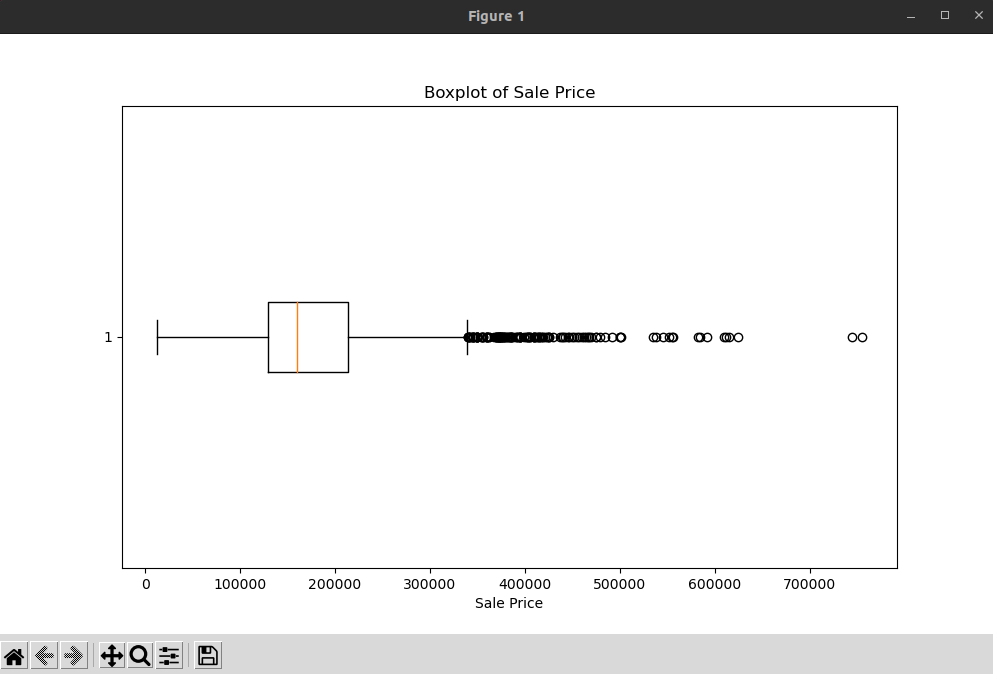
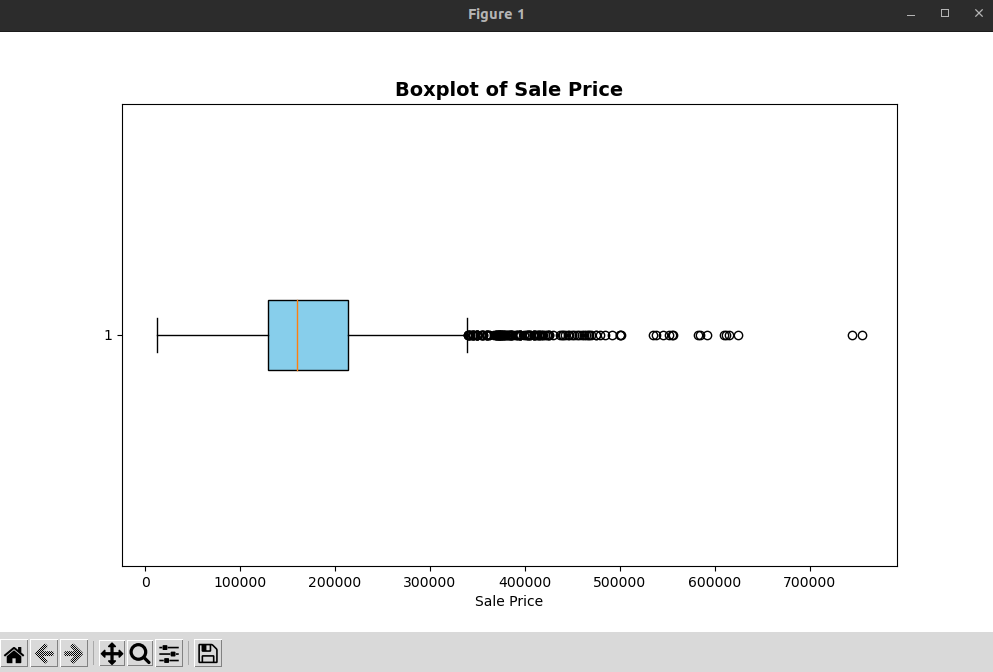
readme

diff --git a/1.FundamentalsML/2.HousePricePrediction/2.2ExploratoryDataAnalysis(EDA)/2.ExploratoryDataAnalysis(EDA).py b/1.FundamentalsML/2.HousePricePrediction/2.2ExploratoryDataAnalysis(EDA)/2.ExploratoryDataAnalysis(EDA).py
@@ -3,7 +3,7 @@ import numpy as np
 import matplotlib.pyplot as plt
 import seaborn as sns
 
-# Ruta del archivo procesado (el que guardamos en DataProcessing.py)
+# Ruta del archivo procesado
 file_path = '/home/kevin/Desktop/Kevin/3.MachineLearning/1.FundamentalsML/2.HousePricePrediction/2.2ExploratoryDataAnalysis(EDA)/AmesHousing_cleaned.csv'
 
 # Cargar datos
@@ -12,65 +12,65 @@ df = pd.read_csv(file_path)
 # Eliminar espacios en los nombres de las columnas
 df.columns = df.columns.str.strip()
 print(df.columns)
+
 # ==================== RESUMEN ESTADÍSTICO ====================
 print("Resumen Estadístico:")
 print(df.describe())
 
 # ==================== HISTOGRAMA ====================
 plt.figure(figsize=(10, 6))
-plt.hist(df['saleprice'].dropna(), bins=50, color='skyblue', edgecolor='black')
-plt.title('Histogram of Sale Price')
+plt.hist(df['saleprice'].dropna(), bins=50, color='#87CEEB', edgecolor='black')  # Sky Blue
+plt.title('Histogram of Sale Price', fontsize=14, fontweight='bold')
 plt.xlabel('Sale Price')
 plt.ylabel('Frequency')
-plt.grid(True)
+plt.grid(True, linestyle='--', alpha=0.6)
 plt.show()
 
 # ==================== BOXPLOT ====================
 plt.figure(figsize=(10, 6))
-plt.boxplot(df['saleprice'].dropna(), vert=False)
-plt.title('Boxplot of Sale Price')
+plt.boxplot(df['saleprice'].dropna(), vert=False, patch_artist=True, boxprops=dict(facecolor='#87CEEB'))
+plt.title('Boxplot of Sale Price', fontsize=14, fontweight='bold')
 plt.xlabel('Sale Price')
 plt.show()
 
 # ==================== SCATTER PLOT (Gr Liv Area vs Sale Price) ====================
 plt.figure(figsize=(10, 6))
-plt.scatter(df['gr_liv_area'], df['saleprice'], alpha=0.5, color='cornflowerblue', edgecolor='k')
-plt.title('Living Area vs Sale Price')
+plt.scatter(df['gr_liv_area'], df['saleprice'], alpha=0.5, color='#4682B4', edgecolor='black')  # Steel Blue
+plt.title('Living Area vs Sale Price', fontsize=14, fontweight='bold')
 plt.xlabel('gr_liv_area')
-plt.ylabel('Sale Price')
-plt.grid(True)
+plt.ylabel('Sale Price') 
+plt.grid(True, linestyle='--', alpha=0.6)
 plt.show()
 
 # ==================== MATRIZ DE CORRELACIÓN ====================
 correlation_matrix = df.corr(numeric_only=True)
 
 plt.figure(figsize=(12, 8))
-plt.imshow(correlation_matrix, cmap='coolwarm', interpolation='nearest')
+plt.imshow(correlation_matrix, cmap='coolwarm', interpolation='nearest')  # Volvemos al estilo original
 plt.colorbar()
-
 plt.xticks(ticks=np.arange(len(correlation_matrix.columns)), labels=correlation_matrix.columns, rotation=90, fontsize=8)
 plt.yticks(ticks=np.arange(len(correlation_matrix.columns)), labels=correlation_matrix.columns, fontsize=8)
-plt.title('Correlation Matrix')
+plt.title('Correlation Matrix', fontsize=14, fontweight='bold')
 plt.show()
 
 # ==================== LOG TRANSFORMATION (SalePrice) ====================
 df['Log_SalePrice'] = np.log1p(df['saleprice'])
 
 plt.figure(figsize=(10, 6))
-plt.hist(df['Log_SalePrice'].dropna(), bins=50, color='lightgreen', edgecolor='black')
-plt.title('Histogram of Log Sale Price')
+plt.hist(df['Log_SalePrice'].dropna(), bins=50, color='#00BFFF', edgecolor='black')  # Deep Sky Blue
+plt.title('Histogram of Log Sale Price', fontsize=14, fontweight='bold')
 plt.xlabel('Log Sale Price')
 plt.ylabel('Frequency')
-plt.grid(True)
+plt.grid(True, linestyle='--', alpha=0.6)
 plt.show()
 
 # ==================== LOG SCATTER PLOT ====================
 plt.figure(figsize=(10, 6))
-plt.scatter(df['gr_liv_area'], df['Log_SalePrice'], alpha=0.5, color='orange', edgecolor='k')
-plt.title('Living Area vs Log Sale Price')
+plt.scatter(df['gr_liv_area'], df['Log_SalePrice'], alpha=0.5, color='#1E90FF', edgecolor='black')  # Dodger Blue
+plt.title('Living Area vs Log Sale Price', fontsize=14, fontweight='bold')
 plt.xlabel('gr_liv_area')
 plt.ylabel('Log Sale Price')
-plt.grid(True)
+plt.grid(True, linestyle='--', alpha=0.6)
 plt.show()
 
 # ==================== CATEGORICAL DATA ANALYSIS ====================
@@ -79,30 +79,23 @@ df = df.dropna(subset=['house_style'])
 
 # Boxplot de precios por estilo de vivienda
 plt.figure(figsize=(10, 6))
-sns.boxplot(x='house_style', y='saleprice', data=df)
+sns.boxplot(x='house_style', y='saleprice', data=df, palette='Blues')
 plt.xticks(rotation=45)
-plt.title('Sale Price by House Style')
+plt.title('Sale Price by House Style', fontsize=14, fontweight='bold')
 plt.show()
 
-# Barplot de precios por vecindario
+# Boxplot de precios por vecindario
 plt.figure(figsize=(12, 6))
-sns.boxplot(x='neighborhood', y='saleprice', data=df)
+sns.boxplot(x='neighborhood', y='saleprice', data=df, palette='Blues')
 plt.xticks(rotation=90)
-plt.title('Sale Price by Neighborhood')
-plt.show()
-
-# Barplot de precios por estilo de vivienda
-plt.figure(figsize=(10, 6))
-sns.boxplot(x='house_style', y='saleprice', data=df)
-plt.xticks(rotation=45)
-plt.title('Sale Price by House Style')
+plt.title('Sale Price by Neighborhood', fontsize=14, fontweight='bold')
 plt.show()
 
 # Conteo de categorías clave
 plt.figure(figsize=(8, 5))
-sns.countplot(x='overall_qual', data=df, hue='overall_qual', palette='viridis', legend=False)
-plt.title('Count of Overall Quality')
+sns.countplot(x='overall_qual', data=df, hue='overall_qual', palette='Blues', legend=False)
+plt.title('Count of Overall Quality', fontsize=14, fontweight='bold')
 plt.xlabel('Overall Quality')
 plt.ylabel('Count')
-plt.grid(axis='y')
+plt.grid(axis='y', linestyle='--', alpha=0.6)
 plt.show()

diff --git a/1.FundamentalsML/2.HousePricePrediction/2.2ExploratoryDataAnalysis(EDA)/Readme.md b/1.FundamentalsML/2.HousePricePrediction/2.2ExploratoryDataAnalysis(EDA)/Readme.md
@@ -1,69 +1,71 @@
 <p align = "center" >
-    <h1 align = "Center"> Exploratory Data Analysis (EDA) </h1>
+    <h1 align = "Center"> 2.1 Data Processing</h1>
 </p>
+
+This script performs an exploratory data analysis (EDA) on the AmesHousing_cleaned.csv dataset. It uses Python libraries such as Pandas, NumPy, Matplotlib, Seaborn to analyze and visualize the distribution of house prices and their relationship with other variables.
+
+Various graphical representations are generated, such as histograms, scatter plots, boxplots, and a correlation matrix, which help to better understand the trends and relationships between the variables in the dataset.
 
 <p align = "center" >
     <h2 align = "Center">🎯 Objetives 🎯</h2>
 </p>
 
-Explore, visualize, and transform key variables to better understand the dataset and lay the groundwork for predictive modeling.
+This analysis helps to detect trends, outliers, and patterns in the data, facilitating decision-making for feature engineering and model selection. 
 
-Visually and statistically explore the already cleaned data (AmesHousing_cleaned.csv), focusing on understanding the distribution of SalePrice, looking for key relationships between variables, and paving the way for modeling (for example, discovering the need to apply transformations like the logarithm).
-
-* **1.Data Load** 
-    - The clean dataset you generated in Program 1 (1.1DataProcessing) (AmesHousing_cleaned.csv), now without null values, is loaded.
-
-* **2.Visual Analysis: Histograms (SalePrice)**
-    - Show how house prices are distributed.
-    - Objective: To see if the distribution is normal, skewed, or has outliers.
-    - Result: Generally shows that prices are right-skewed (lower prices are more frequent, but there are some very high prices).
-
-* **3.Visual Analysis (Boxplot SalePrice)**
-    - Show the price dispersion and detect possible outliers.
-    - Objective: To see interquartile ranges and detect outliers.
-    - Result: In this type of datasets, it is common to see some extremely high prices as outliers.
-
-* **4.Relationship between Variables (Scatter Plot Gr Liv Area vs Sale Price)**
-    - Show how the livable area (Gr Liv Area) relates to the sale price.
-    - Objective: To see if there is a linear relationship or interesting patterns.
-    - Result: Normally, a positive trend is observed (the larger the area, the higher the price), but with some outliers (very large houses with lower-than-expected prices).
-
-* **5. Correlation Matrix (Numerical Variables)**
-    - Visualize the correlation between all numerical variables.
-    - Objective: Identify which variables have a high correlation with SalePrice, which helps in selecting features for the model.
-    - Result: In general, variables such as OverallQual, GrLivArea, and GarageCars tend to have a high correlation with SalePrice.
-
-* **6. Logarithmic Transformation of SalePrice (Log Transform)**
-    - A new column is created
-    - Objective: If SalePrice is skewed (as it often is), applying the logarithm helps to normalize the distribution.
-    - Result: A new histogram shows that Log_SalePrice is more symmetrical.
-
-* **7. Scatter Plot with Log_SalePrice (Gr Liv Area vs Log SalePrice)**
-    - Understand your data before training any modelRepite el scatter plot pero con Log_SalePrice.
-    - Objective: To see if the linear relationship improves by using the logarithm.
-    - Result: Normally, a more linear relationship is seen, which is better for linear models.
+- Obtain descriptive statistics from the dataset.
+- Visualize the distribution of the sale price (**`saleprice`**).
+- Analyze relationships between key variables, such as living area (**`gr_liv_area`**) and the sale price.
+- Explore the correlation between numerical variables using a correlation matrix.
+- Transform the prices with logarithms to improve the normality in the data.
+- Evaluate categorical data using box plots and category counts.
 
 <p align = "center" >
     <h2 align = "Center">📝 Results 📝 </h2>
 </p>
 
-|SalePrice Histogram|Boxplot Sale Price|
+|Description| Histogram of sale Price|
 |----------|---------------------|
-|See Initial Distribution <br> <img src = "https://github.com/KevinAlberto01/3.MachineLearning/blob/main/1.FundamentalsML/2.HousePricePrediction/1.2ExploratoryDataAnalysis(EDA)/Images/1.HistogramSalePrice.png" width="4000"/>|Detect Outliers <br> <img src = "https://github.com/KevinAlberto01/3.MachineLearning/blob/main/1.FundamentalsML/2.HousePricePrediction/1.2ExploratoryDataAnalysis(EDA)/Images/2.BoxplotSalePrice.png" width="4000"/>|
-|<p align = "center" >**GrLivArea vs SalePrice Scatter Plot**</p>|<p align = "center" >**Correlation Matrix**</p>|
-|Direct relationship between area and price <br> <img src = "https://github.com/KevinAlberto01/3.MachineLearning/blob/main/1.FundamentalsML/2.HousePricePrediction/1.2ExploratoryDataAnalysis(EDA)/Images/3.LivingAreavsSalePRice.png" width="4000"/> |Identify key variables <br> <img src = "https://github.com/KevinAlberto01/3.MachineLearning/blob/main/1.FundamentalsML/2.HousePricePrediction/1.2ExploratoryDataAnalysis(EDA)/Images/4.CorrelationMatrix.png" width="4000"/>|
-|<p align = "center" >**Transformación Logarítmica**</p>|<p align = "center" >**Scatter Plot GrLivArea vs Log_SalePrice**</p>|
-|Normalizar SalePrice <br> <img src = "https://github.com/KevinAlberto01/3.MachineLearning/blob/main/1.FundamentalsML/2.HousePricePrediction/1.2ExploratoryDataAnalysis(EDA)/Images/5.HistogramLogSalePrice.png" width="4000"/> |Mejorar relación lineal <br> <img src = "https://github.com/KevinAlberto01/3.MachineLearning/blob/main/1.FundamentalsML/2.HousePricePrediction/1.2ExploratoryDataAnalysis(EDA)/Images/6.LivingAreaLogSalePrice.png" width="4000"/>|
+|          |                        |
+|Description| Box of Sale Price|
+|          |                        |
+|Description| Living Area vs Sale Price|
+|          |                        |
+|Description| Correlation Matrix|
+|          |                        |
+|Description| Histogram of log sale Price|
+|          |                        |
+|Description| Living Area vs log Sale Price|
+|          |                        |
+|Description| Sale price by house style|
+|          |                        |
+|Description| Sale Price by Neighborhood|
+|          |                        |
+|Description| Count of Overall Quality|
+|          |                        |
+|Description| Name of Colums|
+|          |                        |
+|Description| Estadistic summary|
+|          |                        |
 
 <p align = "center" >
-    <h2 align = "Center"> 💻 Program explication (PENDING) 💻</h2>
+    <h2 align = "Center"> 💻 Program explication 💻</h2>
 </p> 
 
 |Pseudocode| Image of the program|
 |----------|---------------------|
-**NumPy:** Used to work with arrays and matrices, and it has functions for mathematics and statistics <br> **Pandas:** Used to manipulate and analyze data, particularly with DataFrames (tables of rows and columns).<br> **matplotlib.pyplot:** Used to create graphs, and pyplot is specifically for generating different types of plots (e.g., bar, line, scatter).<br> **load_digits from sklearn.datasets:** Used to load a dataset of handwritten digits, which is commonly used in classification projects.| <img src = "https://github.com/KevinAlberto01/3.MachineLearning/blob/main/1.FundamentalsML/1.HandwrittenDigitClassifier(MNIST)/1.1LoadingAndExploring(MNIST)/Images/1.DeclareteLibraries.png" width="4000"/>|
-**`digits`:** loads a dataset of handwritten digit images, where you find images of numbers 0 to 9 in black and white, each with 8x8 pixels. Each image represents a number (digit) and has a label indicating which number it is. <br> **`x`:** Contains images (numeric format), for each 8x8 image it is flattened into a 64 array, each value represents the pixel intensity (0 = black, 16 = white). <br> **`y`:** contains the labels (real numbers of the images), each element is a number from 0 to , representing which digit each image is| <img src = "https://github.com/KevinAlberto01/3.MachineLearning/blob/main/1.FundamentalsML/1.HandwrittenDigitClassifier(MNIST)/1.1LoadingAndExploring(MNIST)/Images/2.LoadDataset.png" width="4000"/>|
-**`x.shape`:** Returns the dimension of x(1797, 64), it has 1797 images, and each image has 64 values (8x8 pixels). <br> **`y.shape`:** Returns the dimension of y (1797), there are 1797 labels per image, each label is the number it represents (0-9).|<img src = "https://github.com/KevinAlberto01/3.MachineLearning/blob/main/1.FundamentalsML/1.HandwrittenDigitClassifier(MNIST)/1.1LoadingAndExploring(MNIST)/Images/3.ExploringDimensionsDataSet.png" width="4000"/>|
-**`clases`:** Contains the unique values of y(0-9) <br> **`count_classes`:** Array that indicates how many examples there are of each class | <img src = "https://github.com/KevinAlberto01/3.MachineLearning/blob/main/1.FundamentalsML/1.HandwrittenDigitClassifier(MNIST)/1.1LoadingAndExploring(MNIST)/Images/4.CheckClassesNumberExamples.png" width="4000"/>|
-**`plt.figure(figsize=(8,5))`:** Set the size of the figure (8 wide and 5 high) <br> **`plt.bar(clases, count_classes, color='skyblue')`:** Create the bar chart, the list that contains the number of examples, assign the color of the bars. <br> **`plt.xlabel('Digit')`:** Set the x-axis label <br> **`plt.ylabel('Number of examples')`:** Set the y-axis label <br> **`plt.title('Distribution of the classes')`:** Add a title to the chart. <br> **`plt.show()`:** Visualize the graph | <img src = "https://github.com/KevinAlberto01/3.MachineLearning/blob/main/1.FundamentalsML/1.HandwrittenDigitClassifier(MNIST)/1.1LoadingAndExploring(MNIST)/Images/5.ViewDistributionClasses.png" width="4000"/>|
-**`fig, axes = plt.subplots(2, 5, figsize=(10, 5))`:** Create a figure and a grid (2 rows and 5 columns) totaling 10 subplots, set the size (10, 5 in inches)  10 wide and 5 high <br> **`fig.suptitle("Examples of images")`:** Establish a general title <br> **`for i, ax in enumerate(axes.ravel())`:** Iterates through each of the subplots, converts the (2x5) matrix into a one-dimensional array, which makes individual access easier, and returns both the index `i` and the `ax` object in each iteration. <br> **`ax.imshow(x[i].reshape(8,8), cmap='gray')`:** it is a vector image from the dataset.  resize to an 8x8 matrix, apply a grayscale <br> **`ax.set_title(f"label: {y[i]}")`:** Assign a title to each subplot. <br> **`ax.axis('off')`:** Deactivate the axes so that the marks or values do not appear. <br> **`plt.show()`:** Show the subplots and images. | <img src = "https://github.com/KevinAlberto01/3.MachineLearning/blob/main/1.FundamentalsML/1.HandwrittenDigitClassifier(MNIST)/1.1LoadingAndExploring(MNIST)/Images/6.ViewExample.png" width="4000"/>|
+add| <img src = "https://github.com/KevinAlberto01/3.MachineLearning/blob/main/1.FundamentalsML/2.HousePricePrediction/2.1DataProcessing/Images/1.ImportLibraries.png" width="4000"/>|
+
+add| <img src = "https://github.com/KevinAlberto01/3.MachineLearning/blob/main/1.FundamentalsML/2.HousePricePrediction/2.1DataProcessing/Images/2.LoadDataset.png" width="4000"/>|
+
+add|<img src = "https://github.com/KevinAlberto01/3.MachineLearning/blob/main/1.FundamentalsML/2.HousePricePrediction/2.1DataProcessing/Images/3.DataInspection.png" width="4000"/>|
+
+
+add| <img src = "https://github.com/KevinAlberto01/3.MachineLearning/blob/main/1.FundamentalsML/2.HousePricePrediction/2.1DataProcessing/Images/4.ColumnClassification.png" width="4000"/>|
+
+
+add| <img src = "https://github.com/KevinAlberto01/3.MachineLearning/blob/main/1.FundamentalsML/2.HousePricePrediction/2.1DataProcessing/Images/5.CleaningData.png" width="4000"/>|
+
+add| <img src = "https://github.com/KevinAlberto01/3.MachineLearning/blob/main/1.FundamentalsML/2.HousePricePrediction/2.1DataProcessing/Images/6.SaveCleaned.png" width="4000"/>|
+
+
+add| <img src = "https://github.com/KevinAlberto01/3.MachineLearning/blob/main/1.FundamentalsML/2.HousePricePrediction/2.1DataProcessing/Images/7.DataInspection.png" width="4000"/>|

diff --git a/1.FundamentalsML/2.HousePricePrediction/2.1DataProcessing/Readme.md b/1.FundamentalsML/2.HousePricePrediction/2.1DataProcessing/Readme.md
@@ -318,10 +318,10 @@ Finally, save the cleaned dataset in a CSV file.
 
 |Pseudocode| Image of the program|
 |----------|---------------------|
-add| <img src = "https://github.com/KevinAlberto01/3.MachineLearning/blob/main/1.FundamentalsML/2.HousePricePrediction/2.1DataProcessing/Images/1.ImportLibraries.png" width="4000"/>|
-add| <img src = "https://github.com/KevinAlberto01/3.MachineLearning/blob/main/1.FundamentalsML/2.HousePricePrediction/2.1DataProcessing/Images/2.LoadDataset.png" width="4000"/>|
-add|<img src = "https://github.com/KevinAlberto01/3.MachineLearning/blob/main/1.FundamentalsML/2.HousePricePrediction/2.1DataProcessing/Images/3.DataInspection.png" width="4000"/>|
-add| <img src = "https://github.com/KevinAlberto01/3.MachineLearning/blob/main/1.FundamentalsML/2.HousePricePrediction/2.1DataProcessing/Images/4.ColumnClassification.png" width="4000"/>|
-add| <img src = "https://github.com/KevinAlberto01/3.MachineLearning/blob/main/1.FundamentalsML/2.HousePricePrediction/2.1DataProcessing/Images/5.CleaningData.png" width="4000"/>|
-add| <img src = "https://github.com/KevinAlberto01/3.MachineLearning/blob/main/1.FundamentalsML/2.HousePricePrediction/2.1DataProcessing/Images/6.SaveCleaned.png" width="4000"/>|
-add| <img src = "https://github.com/KevinAlberto01/3.MachineLearning/blob/main/1.FundamentalsML/2.HousePricePrediction/2.1DataProcessing/Images/7.DataInspection.png" width="4000"/>|
+**Pandas** is imported, an essential library in Python for data manipulation and analysis.| <img src = "https://github.com/KevinAlberto01/3.MachineLearning/blob/main/1.FundamentalsML/2.HousePricePrediction/2.1DataProcessing/Images/1.ImportLibraries.png" width="4000"/>|
+**`file_path`:** is defined with the location of the AmesHousing.csv file. <br> **`pd.read_csv(file_path):`** loads the CSV file into a Pandas DataFrame (df).| <img src = "https://github.com/KevinAlberto01/3.MachineLearning/blob/main/1.FundamentalsML/2.HousePricePrediction/2.1DataProcessing/Images/2.LoadDataset.png" width="4000"/>|
+**`df.info():`** shows information about the dataset, such as data types, the number of non-null values, and columns. <br> **`df.describe():`** provides descriptive statistics of the numerical columns (mean, median, standard deviation, etc.).|<img src = "https://github.com/KevinAlberto01/3.MachineLearning/blob/main/1.FundamentalsML/2.HousePricePrediction/2.1DataProcessing/Images/3.DataInspection.png" width="4000"/>|
+**`num_cols`:** Gets all the numeric columns (**`int64`**, **`float64`**). <br> **`cat_cols`**: Gets all the categorical columns (**`object`**).| <img src = "https://github.com/KevinAlberto01/3.MachineLearning/blob/main/1.FundamentalsML/2.HousePricePrediction/2.1DataProcessing/Images/4.ColumnClassification.png" width="4000"/>|
+5.1 Filling Missing Values in Numeric Columns <br> For each column in **`num_cols`**, the missing values (**NaN**) are filled with the **median** of the column. <br> **`inplace=True`** modifies **`df`** directly. <br> 5.2 Filling Missing Values in Categorical Columns <br> For each column in **`cat_cols`**, the missing values are replaced with **`'Missing'`.** <br> 5.3 Standardization of Column Names <br>Convert the column names to **lowercase**.<br> Replace spaces with **"_"**. <br> Remove whitespace around the column name.| <img src = "https://github.com/KevinAlberto01/3.MachineLearning/blob/main/1.FundamentalsML/2.HousePricePrediction/2.1DataProcessing/Images/5.CleaningData.png" width="4000"/>|
+Save the cleaned dataset in two different paths without including the index (**`index=False`**).| <img src = "https://github.com/KevinAlberto01/3.MachineLearning/blob/main/1.FundamentalsML/2.HousePricePrediction/2.1DataProcessing/Images/6.SaveCleaned.png" width="4000"/>|
+Show **`df.info()`** and **`df.describe()`** again after the cleaning. <br> Print the location where the clean dataset was saved.| <img src = "https://github.com/KevinAlberto01/3.MachineLearning/blob/main/1.FundamentalsML/2.HousePricePrediction/2.1DataProcessing/Images/7.DataInspection.png" width="4000"/>|
